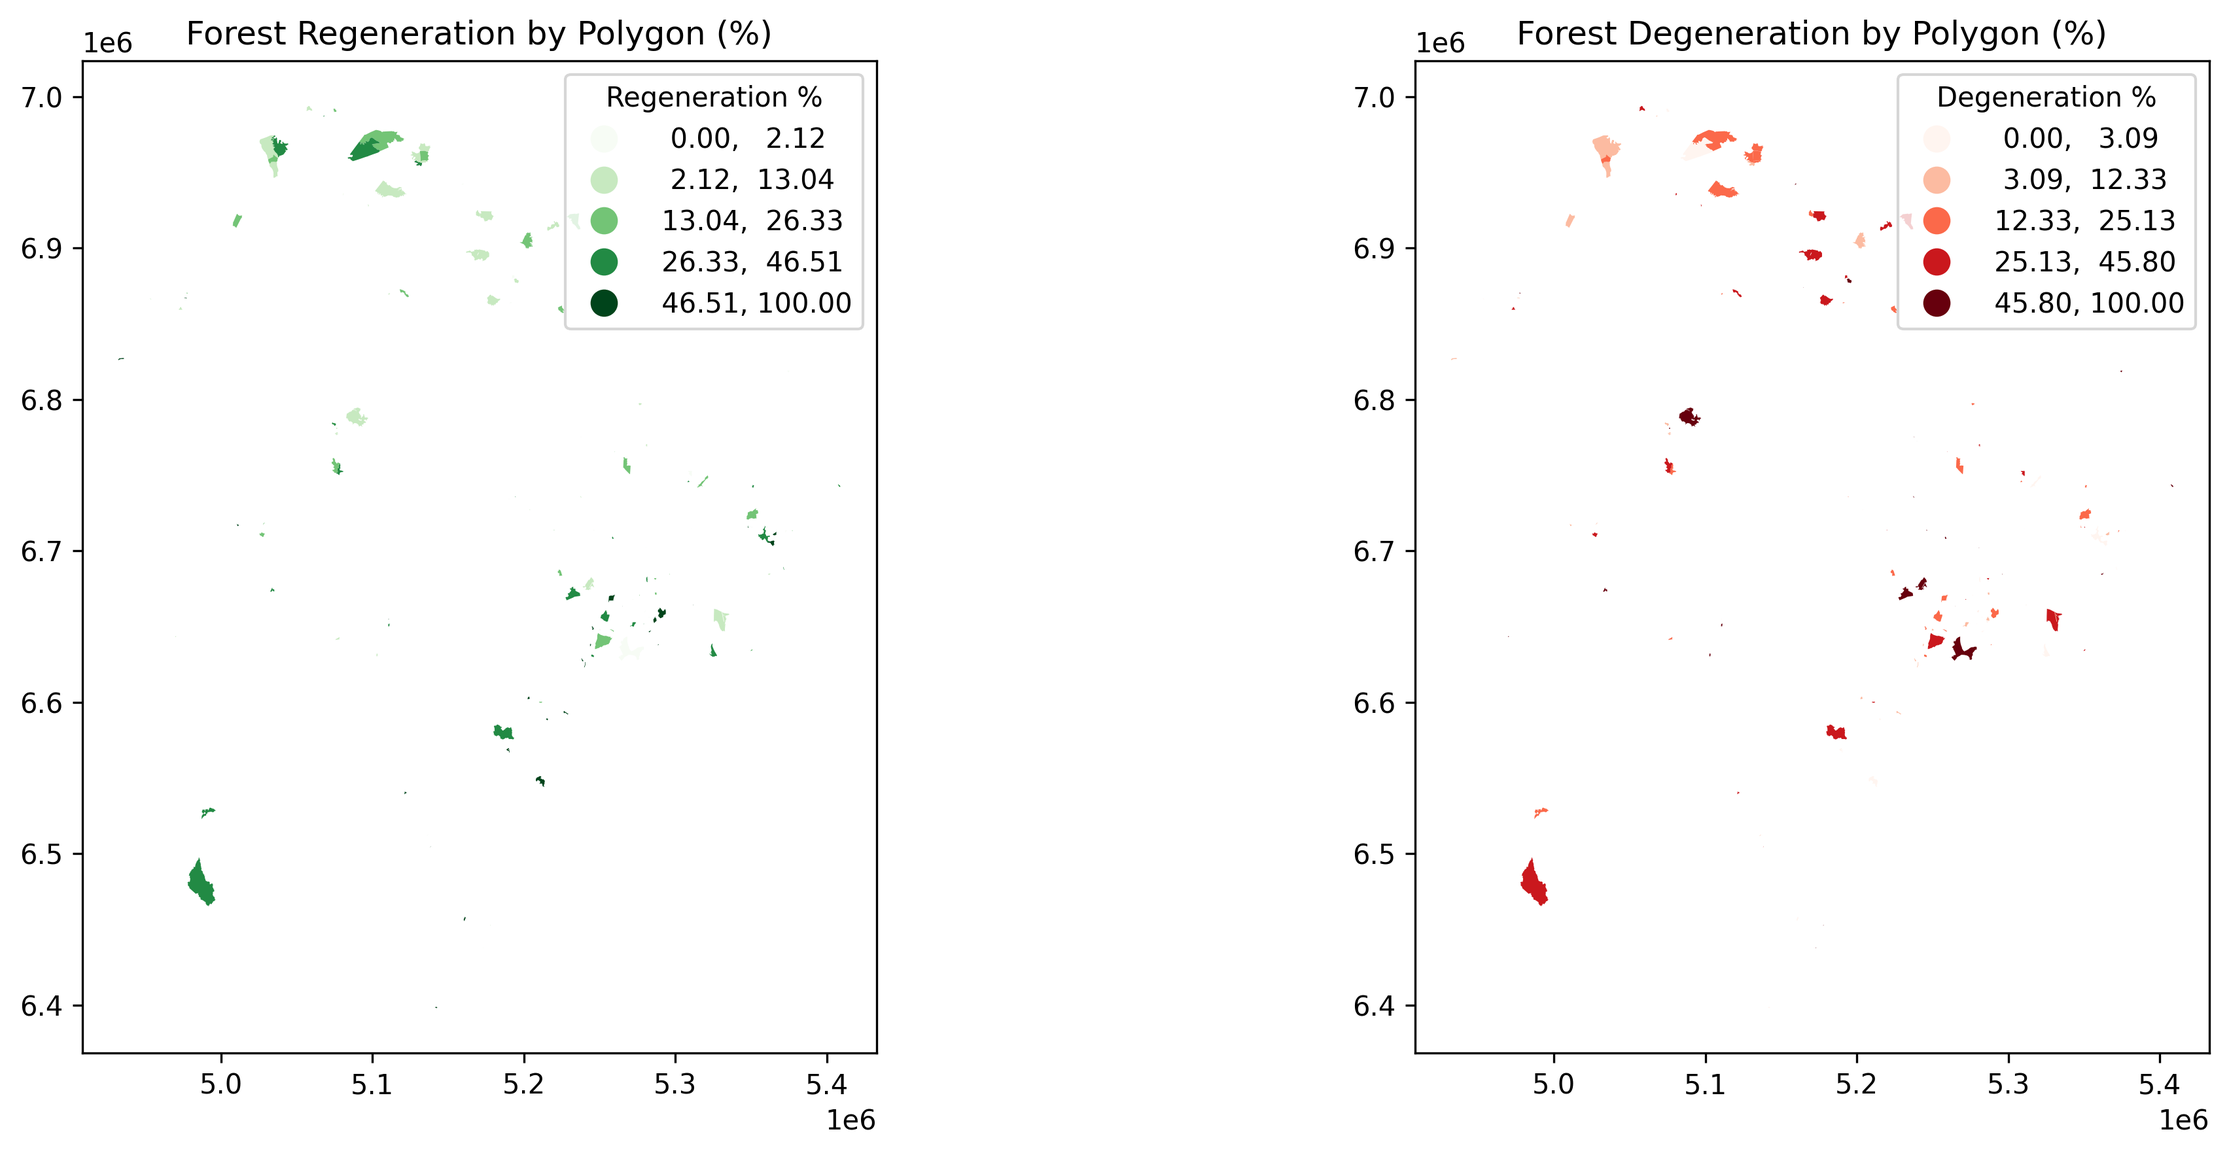
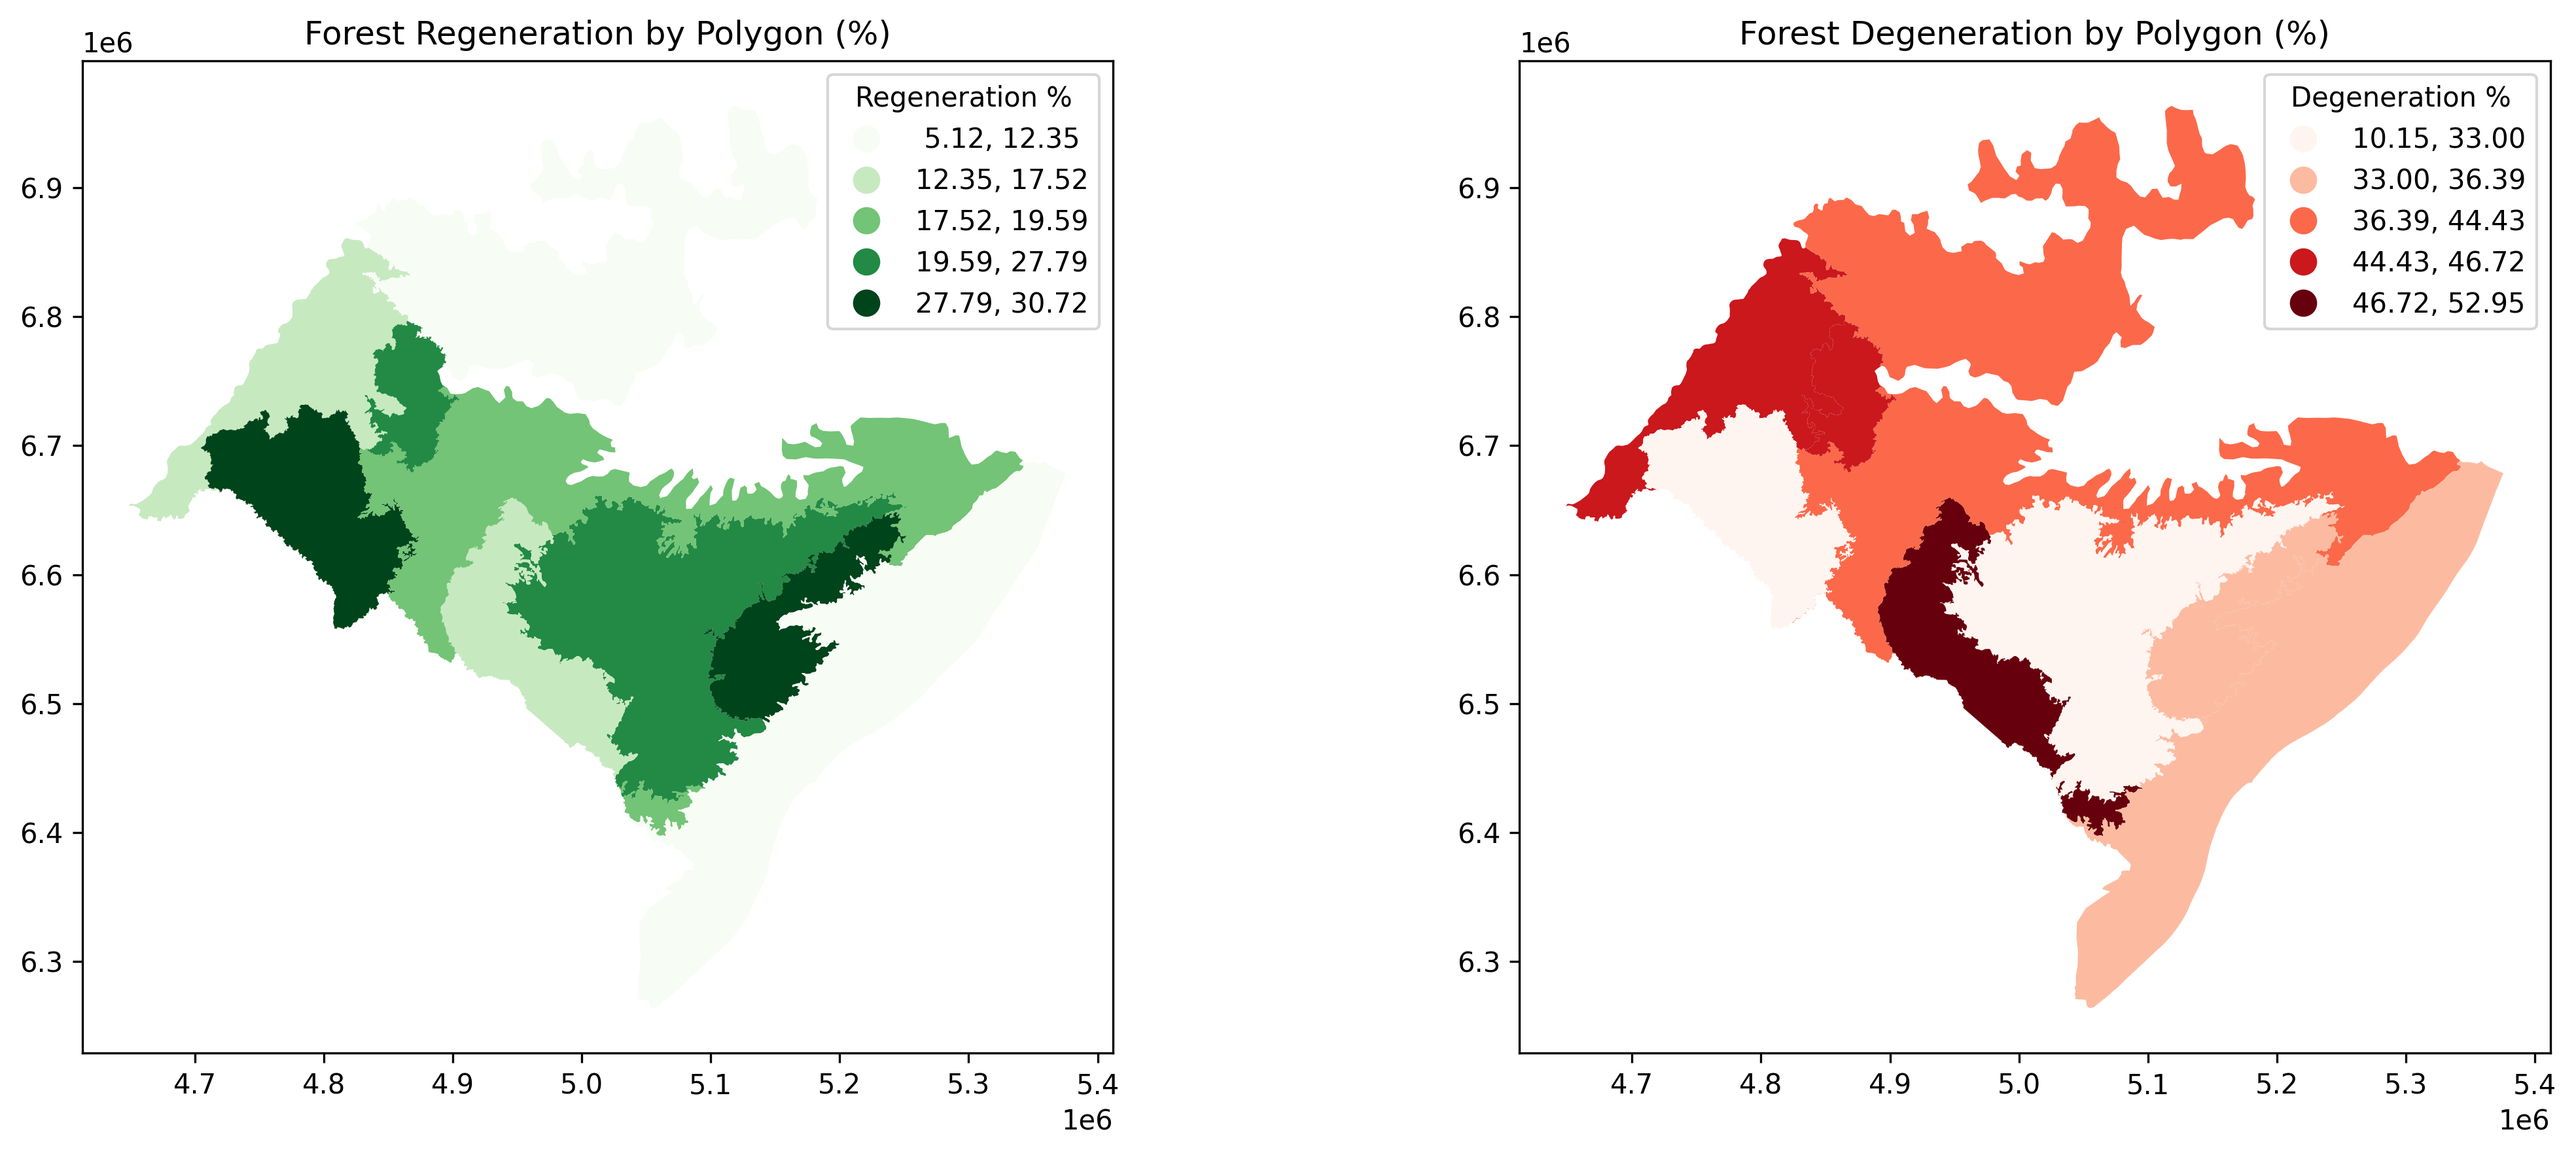
late changes

diff --git a/ca_test.py b/ca_test.py
@@ -1,0 +1,56 @@
+
+import pandas as pd
+import numpy as np
+from sklearn.preprocessing import MinMaxScaler, StandardScaler
+import geopandas as gpd
+
+from models.gpkg import GeoPackage
+
+def normalize_indicators(df: pd.DataFrame | gpd.GeoDataFrame, indicators, method='minmax', direction='positive'):
+    """
+    Normalize indicators to 0-1 scale
+    direction: 'positive' if higher values are better, 'negative' if higher values are worse
+    """
+    normalized_df = df.copy()
+    scaler = MinMaxScaler() if method == 'minmax' else StandardScaler()
+    
+    for indicator in indicators:
+        if direction == 'negative':
+            # Invert so higher values always mean worse outcome for vulnerability
+            normalized_df[indicator] = 1 - scaler.fit_transform(df[[indicator]].values.reshape(-1, 1))
+        else:
+            normalized_df[indicator] = scaler.fit_transform(df[[indicator]].values.reshape(-1, 1))
+    
+    return normalized_df
+
+
+def calculate_ipcc_vulnerability(df, weights=None):
+    """
+    Calculate IPCC Vulnerability Index
+    V = (Exposure + Sensitivity) - Adaptive Capacity
+    """
+    if weights is None:
+        # Default equal weights - YOU SHOULD ADJUST THESE BASED ON EXPERT KNOWLEDGE
+        weights = {
+            'adaptive_capacity': {'educ_pct_imputed': 0.25, 'proximity_index': 0.25,
+                                 'regeneration_%': 0.25, 'forest_cover_2023_%': 0.25}
+        }
+    
+    df['adaptive_capacity_score'] = sum(df[indicator] * weight for indicator, weight 
+                                      in weights['adaptive_capacity'].items())
+    
+    # # Calculate vulnerability (normalized to 0-1)
+    # df['vulnerability_raw'] = (df['exposure_score'] + df['sensitivity_score']) - df['adaptive_capacity_score']
+    # df['vulnerability_index'] = MinMaxScaler().fit_transform(df[['vulnerability_raw']])
+    
+    return df
+
+
+if __name__ == '__main__':
+    gpkg = GeoPackage()
+    gdf = gpkg.read_layer('CA_TESTE')
+    indicators = ['educ_pct_imputed', 'proximity_index', 'regeneration_%', 'forest_cover_2023_%']
+    df = normalize_indicators(gdf, indicators)
+    df = calculate_ipcc_vulnerability(df)
+    print(df.head())
+    df.to_file("data/CA_teste.geojson", driver='GeoJSON')

diff --git a/percent_mapbiomas.py b/percent_mapbiomas.py
@@ -1,0 +1,23 @@
+from rasterstats import zonal_stats
+from models.gpkg import GeoPackage
+from models.mapbiomas import MapBiomas
+from pandas import DataFrame
+
+if __name__ == '__main__':
+    gpkg = GeoPackage()
+    gdf = gpkg.read_layer("ti_ac_preliminar")
+    mp_bioma = MapBiomas()
+    class_dict = mp_bioma.class_names
+    raster = 'data/ti_lulc_2023_reproject.tif'
+    stats = zonal_stats(
+        gdf,
+        raster,
+        categorical=True,
+        nodata=0
+    )
+    df_stats = DataFrame(stats)
+    df_stats = df_stats.rename(columns={k: v for k, v in class_dict.items() if k in df_stats.columns})
+    df_stats_pct = df_stats.div(df_stats.sum(axis=1), axis=0) * 100
+    gdf_final = gdf.join(df_stats_pct)
+
+    print(gdf_final.head())

diff --git a/models/mapbiomas.py b/models/mapbiomas.py
@@ -48,7 +48,10 @@ class MapBiomas:
     
     @cached_property
     def class_names(self) -> dict:
-        return dict(zip(self.classes[CLASS_ID_COL], self.classes[DESCRIPTION_COL]))
+        return {
+            k: v.strip().replace(' ', '_').lower()
+            for k, v in zip(self.classes[CLASS_ID_COL], self.classes[DESCRIPTION_COL])
+        }
     
     @cached_property
     def natural_classes(self) -> np.ndarray:

diff --git a/test_ipcc.py b/test_ipcc.py
@@ -37,7 +37,7 @@ def create_sample_data():
     return pd.DataFrame(data)
 
 # Normalization functions
-def normalize_indicators(df, indicators, method='minmax', direction='positive'):
+def normalize_indicators(df: pd.DataFrame, indicators, method='minmax', direction='positive'):
     """
     Normalize indicators to 0-1 scale
     direction: 'positive' if higher values are better, 'negative' if higher values are worse

diff --git a/degrad_regen_pol.py b/degrad_regen_pol.py
@@ -199,7 +199,7 @@ if __name__ == "__main__":
     output_shp = "forest_changes.shp"
     mp = MapBiomas()
     gpkg = GeoPackage()
-    gdf = gpkg.read_layer('ti_ac_preliminar')
+    gdf = gpkg.read_layer('se_rs_clip')
     forest_list = mp.natural_classes
     human_list = mp.human_classes
     
